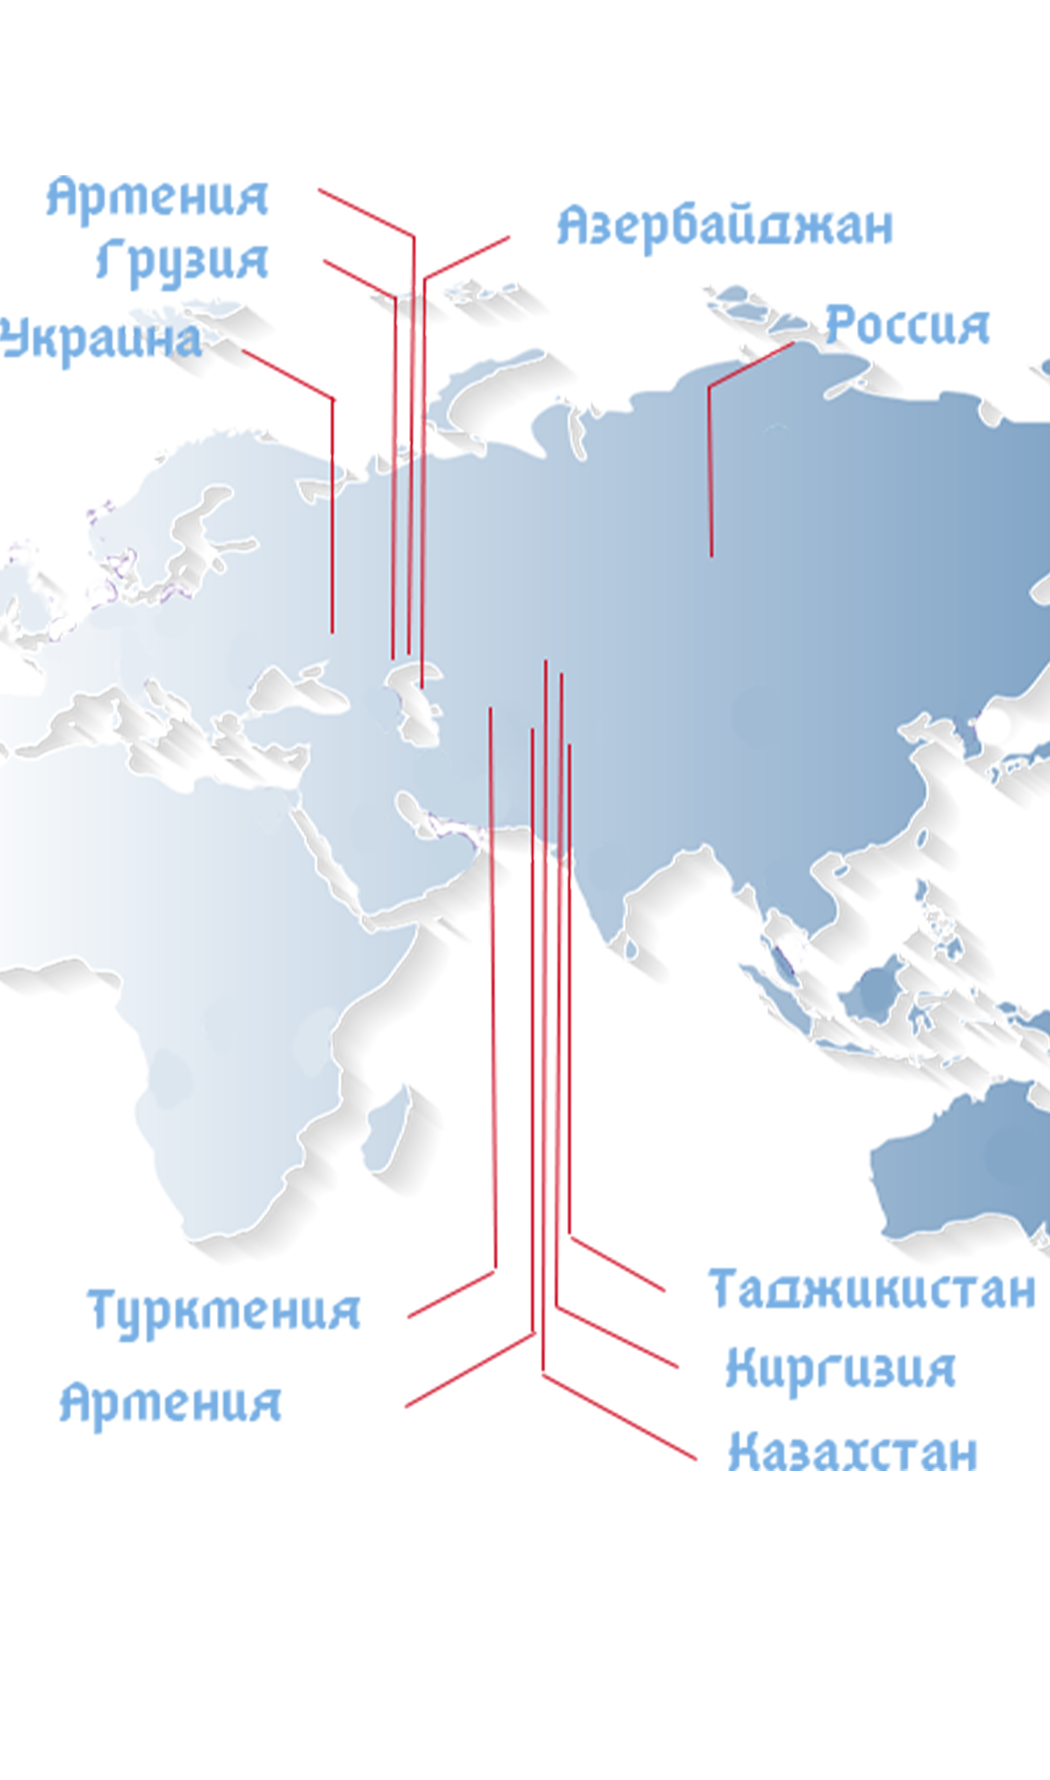
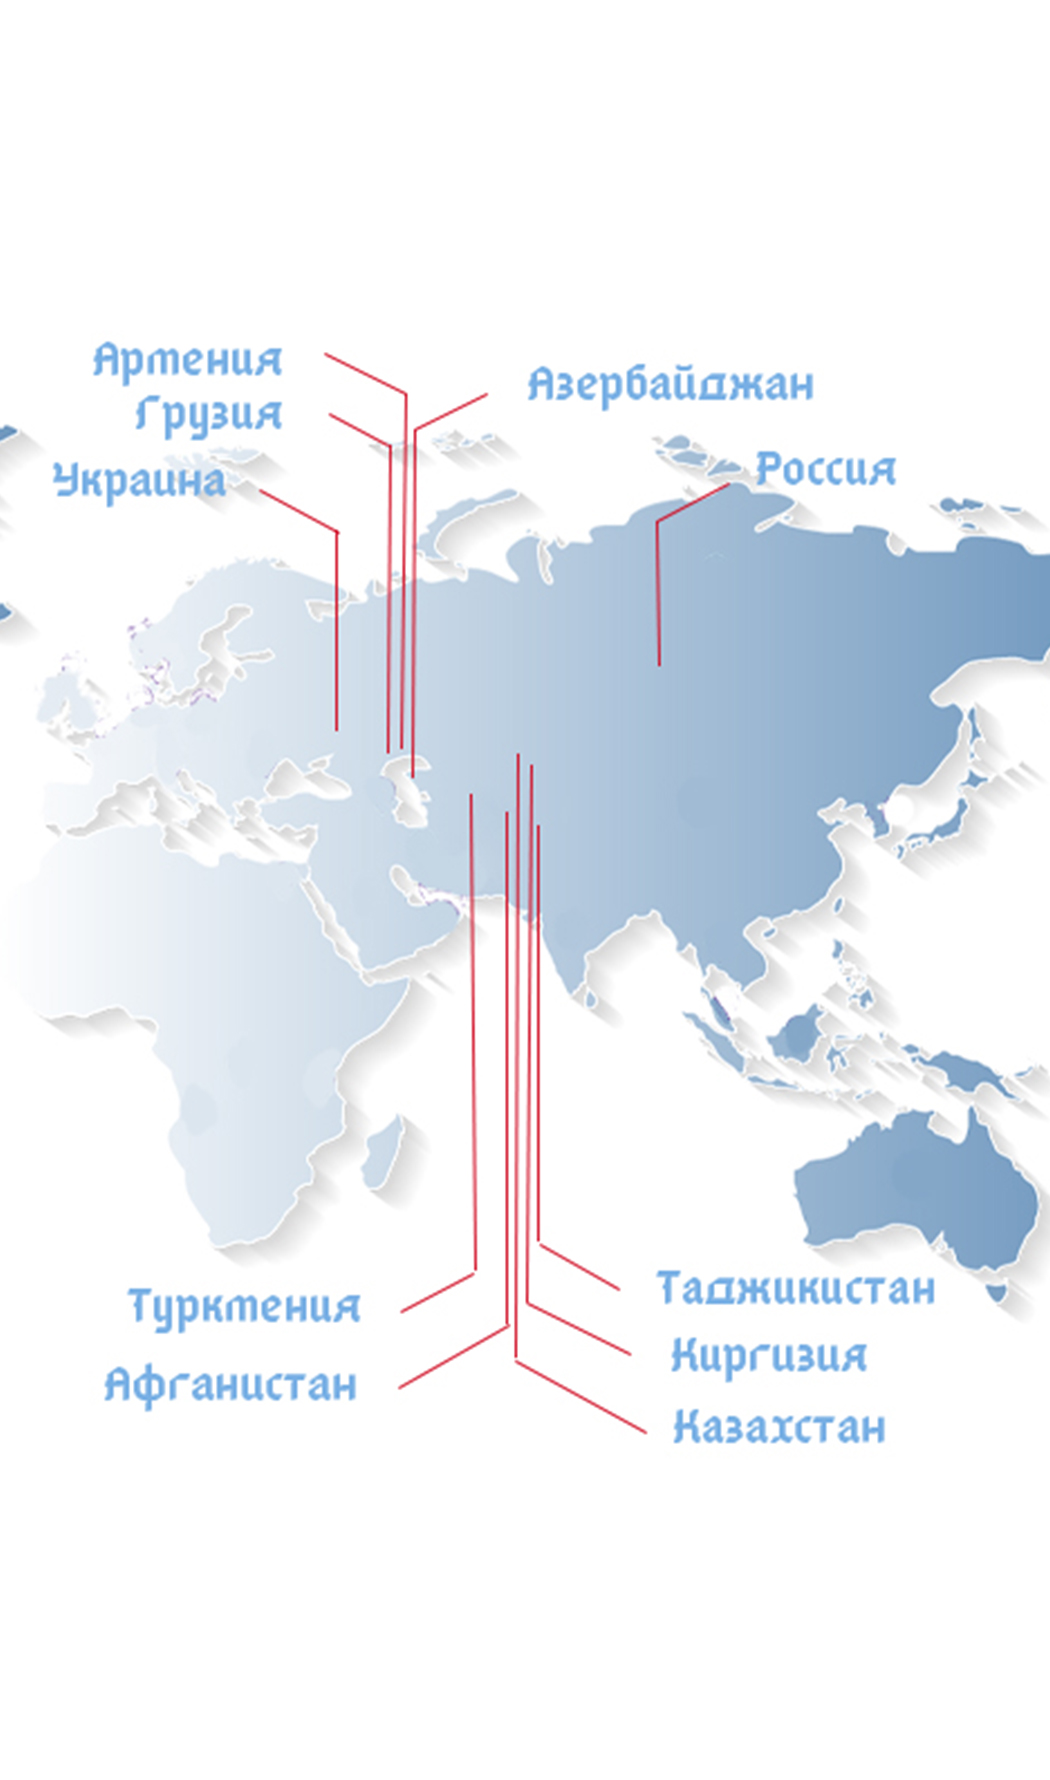
rew

diff --git a/Axangaran/index.html b/Axangaran/index.html
@@ -678,12 +678,12 @@
             <ul>
               <li><i class="icofont-check"></i> Украина</li>
               <li><i class="icofont-check"></i> Казахстан</li>
-              <li><i class="icofont-check"></i> Кыргызстан</li>
+              <li><i class="icofont-check"></i> Киргизия</li>
               <li><i class="icofont-check"></i> Афганистан</li>
               <li><i class="icofont-check"></i> Азербайджан</li>
               <li><i class="icofont-check"></i> Армения</li>
               <li><i class="icofont-check"></i> Грузия</li>
-              <li><i class="icofont-check"></i> Туркменистан</li>
+              <li><i class="icofont-check"></i> Туркмения</li>
               <li><i class="icofont-check"></i> Российская Федерация</li>
               
             </ul>
